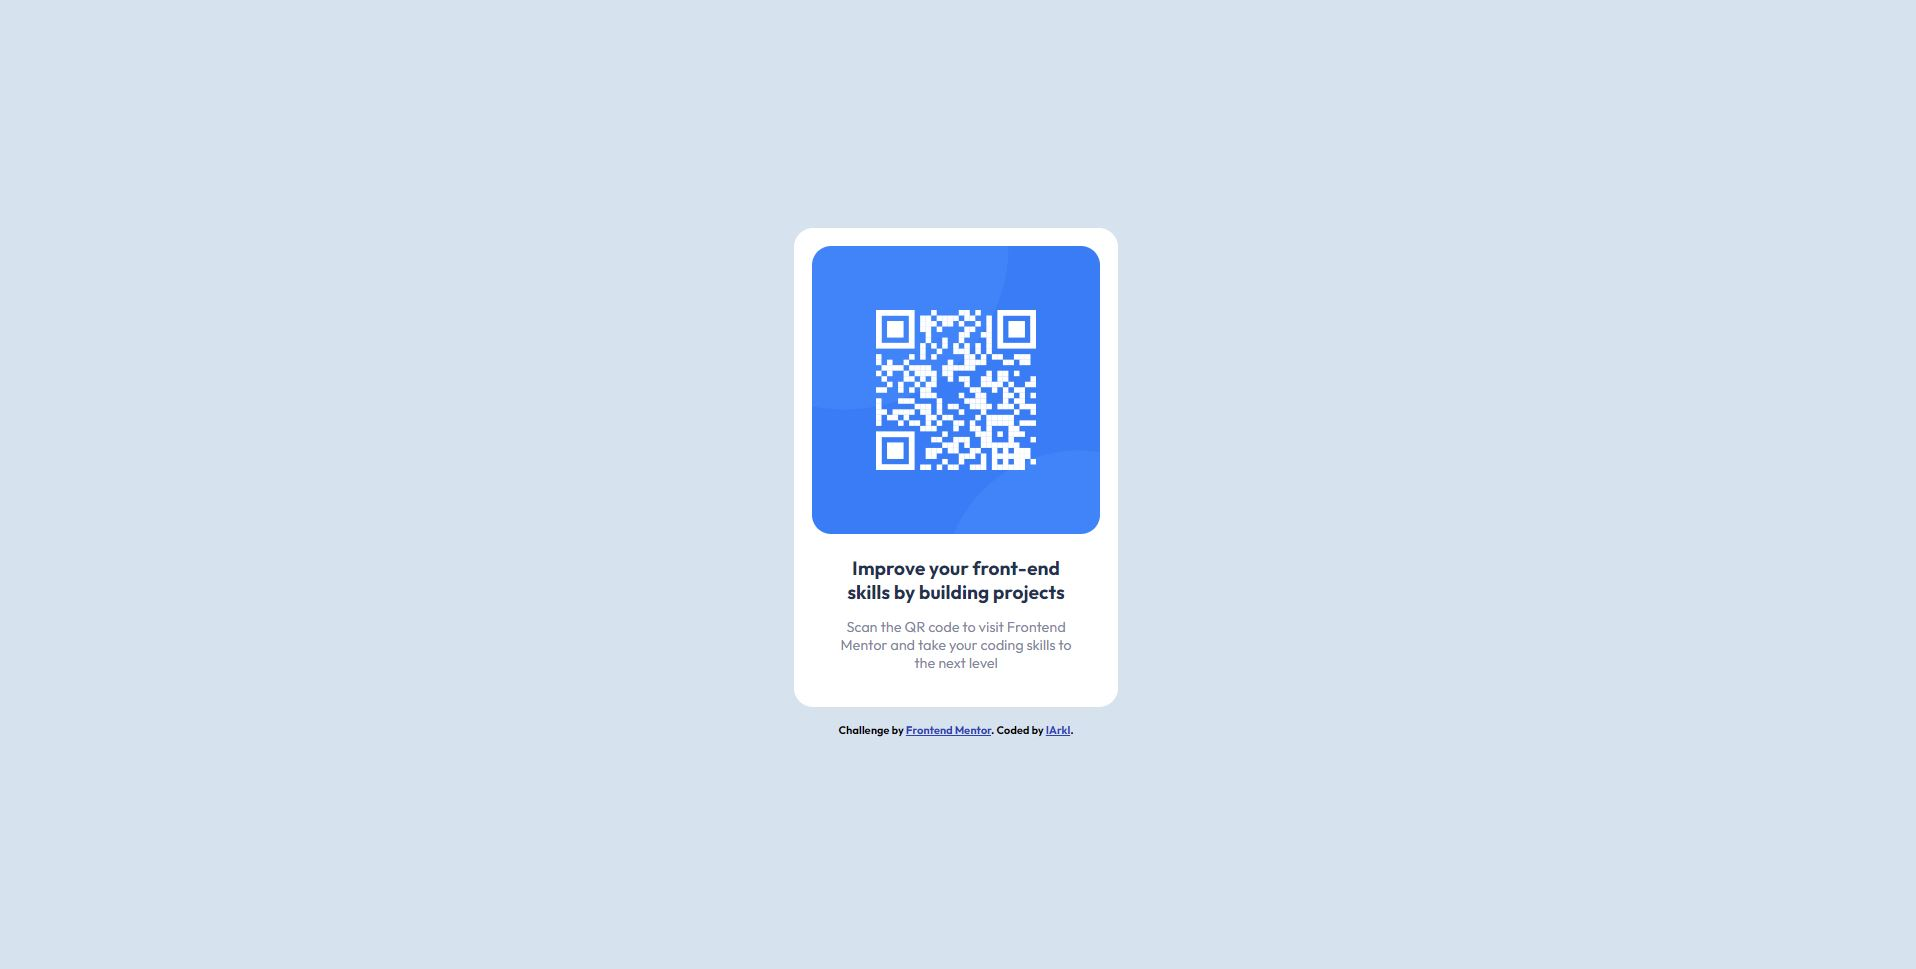
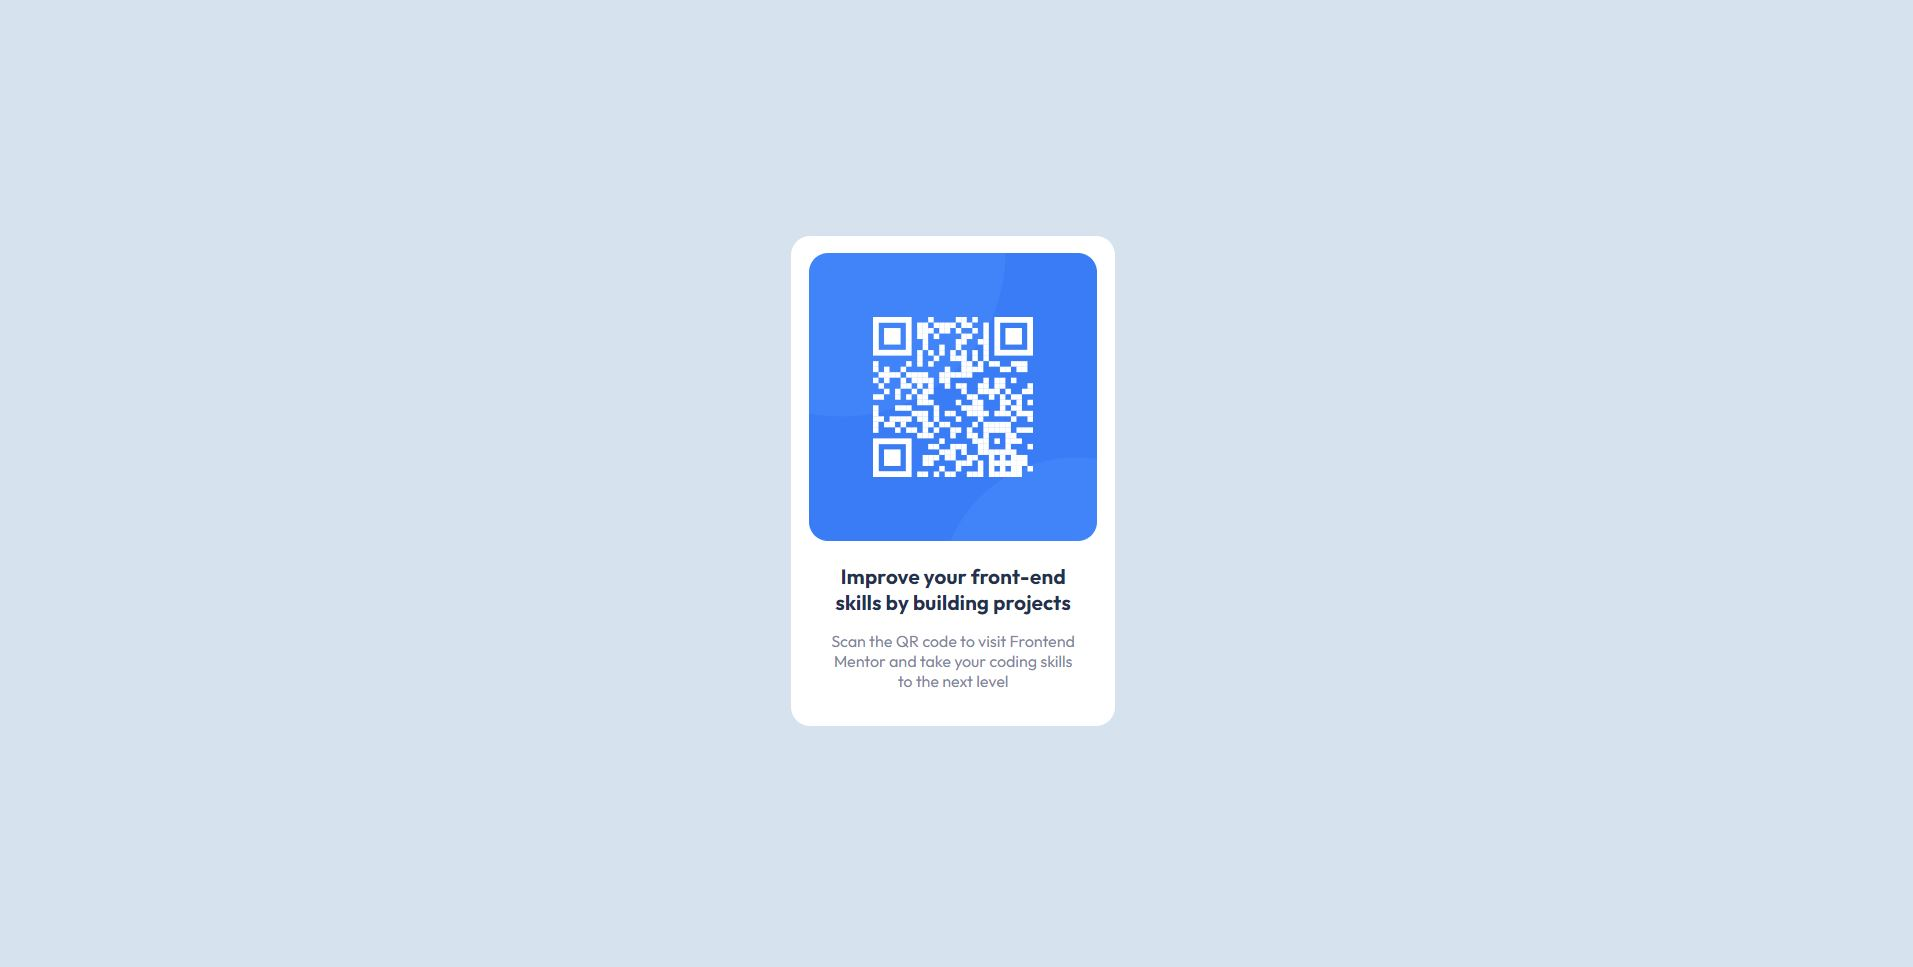
changed font-size and deleted footer

Changed region(s): [[0.4009, 0.3102, 0.586, 0.7756], [0.4009, 0.2172, 0.586, 0.2792]]

diff --git a/index.html b/index.html
@@ -45,13 +45,12 @@
     .qr-text {
       margin: 1.1rem;
       color: var(--gray-blue);
-      font-size: 0.9rem;
     }
 
     .qr-header {
       color: var(--dark-blue);
       font-weight: 700;
-      font-size: 1.2rem;
+      font-size: 1.3rem;
     }
 
     .qr-image {
